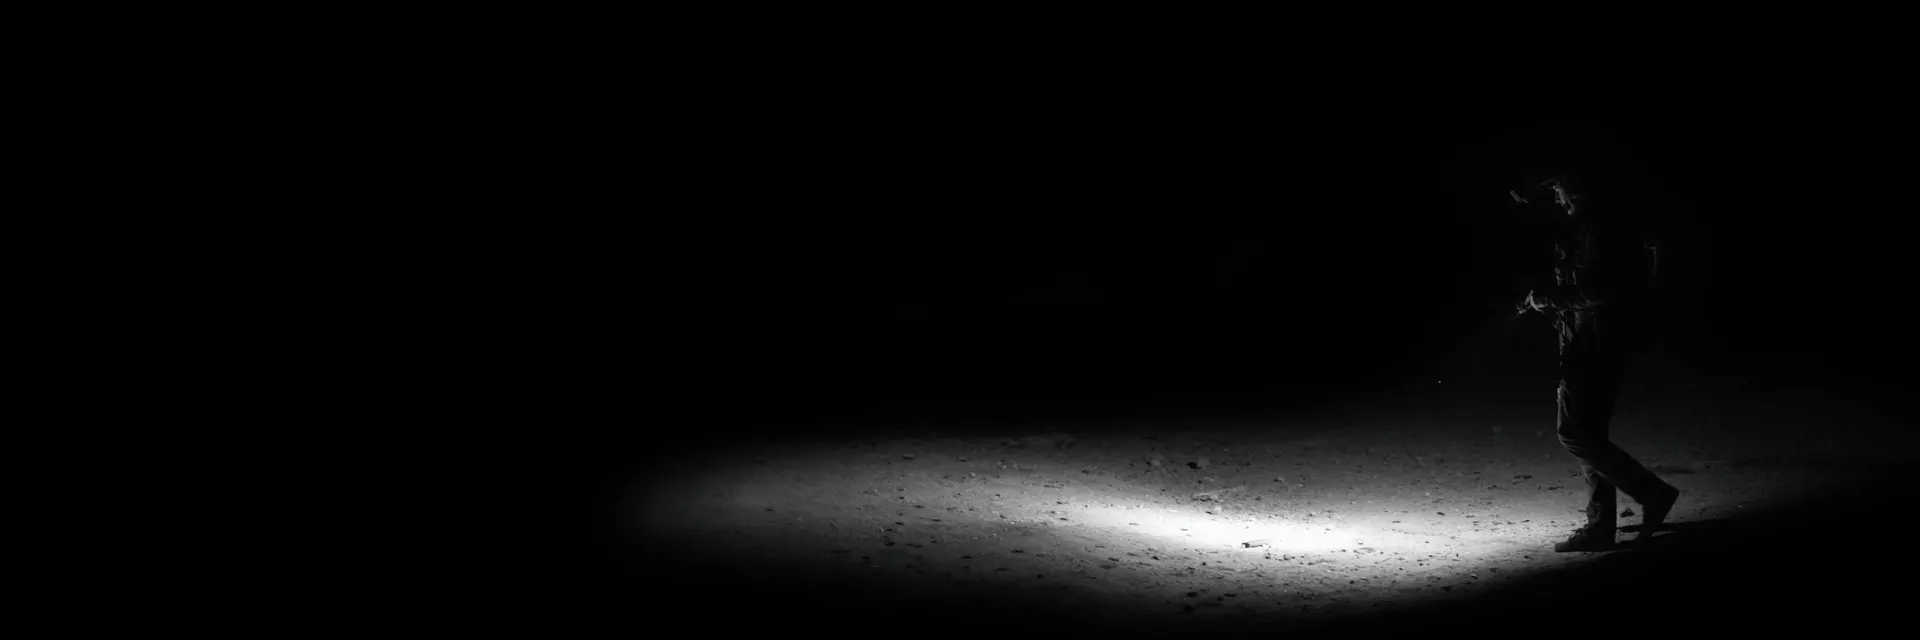
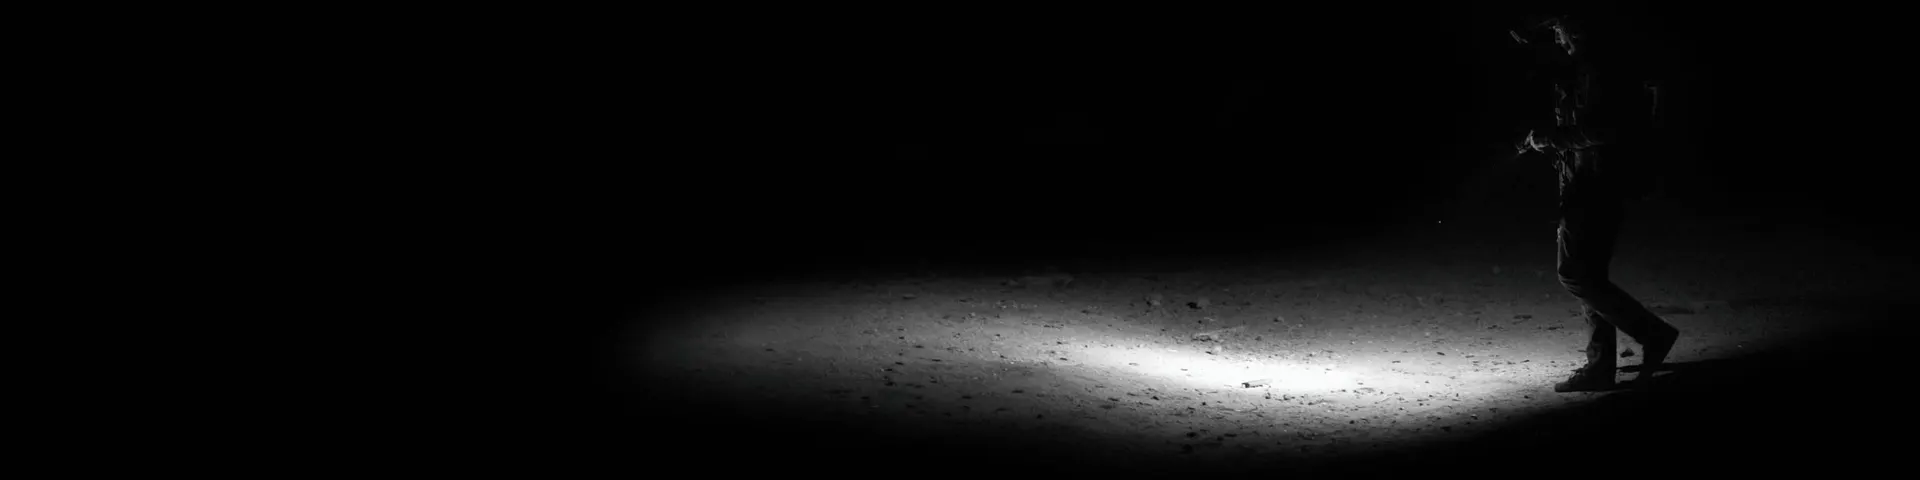
Size the desktop hero by the image's ratio instead of the viewport
The hero cut off the product row and could not be fixed by shrinking it.
With object-cover on a full-width box the scale is locked by width, so a
3:1 image at 1920 always renders 640px tall and a shorter box only
reveals less of it — at 52vh it was already discarding 78px (12%), and
every reduction discarded more.

Fixing it needs a wider source, so Hero_Desktop_4x1.jpg is a 4:1 crop of
the existing master with the top band removed. That band is black, not
merely dark: mean brightness 1.0/255 with a brightest pixel of 4, so the
crop is visually lossless. Measured before cutting; the next band down
peaks at 107 and would have cost real content, which is why this is 4:1
and not 5:1.

The hero then takes md:aspect-[4/1] rather than a vh height, so its
shape is defined by the image and it can never crop at any viewport.
Verified at 768, 1024, 1440 and 1920: box ratio exactly 4.00 everywhere,
0% cropped. At 1920 the hero is 476px against 562px before — shorter and
showing more.

lg:gap-8 drops to lg:gap-6 because the headline and CTA overran the hero
by 4px at exactly 1024, where the aspect box is shortest relative to the
88px headline.

Mobile is untouched: still the portrait master in a 38vh box.

diff --git a/app/page.tsx b/app/page.tsx
@@ -21,7 +21,7 @@ export default async function HomePage() {
     <main className="bg-black text-white">
 
       {/* Hero — full-width banner with text overlay */}
-      <section className="relative w-full h-[38vh] lg:h-[52vh] overflow-hidden">
+      <section className="relative w-full h-[38vh] md:h-auto md:aspect-[4/1] overflow-hidden">
         {/* Hand-written <picture> rather than next/image: this needs art
             direction (a different crop below 768px), which next/image cannot
             express, and the variants are pre-built by `npm run images` anyway
@@ -51,14 +51,14 @@ export default async function HomePage() {
             sizes="100vw"
           />
           <img
-            src="/Branding/Hero_Desktop.jpg"
+            src="/Branding/Hero_Desktop_4x1.jpg"
             alt="Terra Fieldworks"
             fetchPriority="high"
             className="absolute inset-0 h-full w-full object-cover object-bottom"
           />
         </picture>
         <div className="absolute inset-0 bg-gradient-to-r from-black/70 via-black/30 to-transparent" />
-        <div className="absolute inset-0 flex flex-col justify-center items-start gap-5 lg:gap-8 px-6 lg:px-20">
+        <div className="absolute inset-0 flex flex-col justify-center items-start gap-5 lg:gap-6 px-6 lg:px-20">
           <h1 className="text-[1.75rem] lg:text-[88px] font-extrabold uppercase tracking-tight leading-none">
             <span className="block">Solutions for</span>
             <span className="block">the Field.</span>
